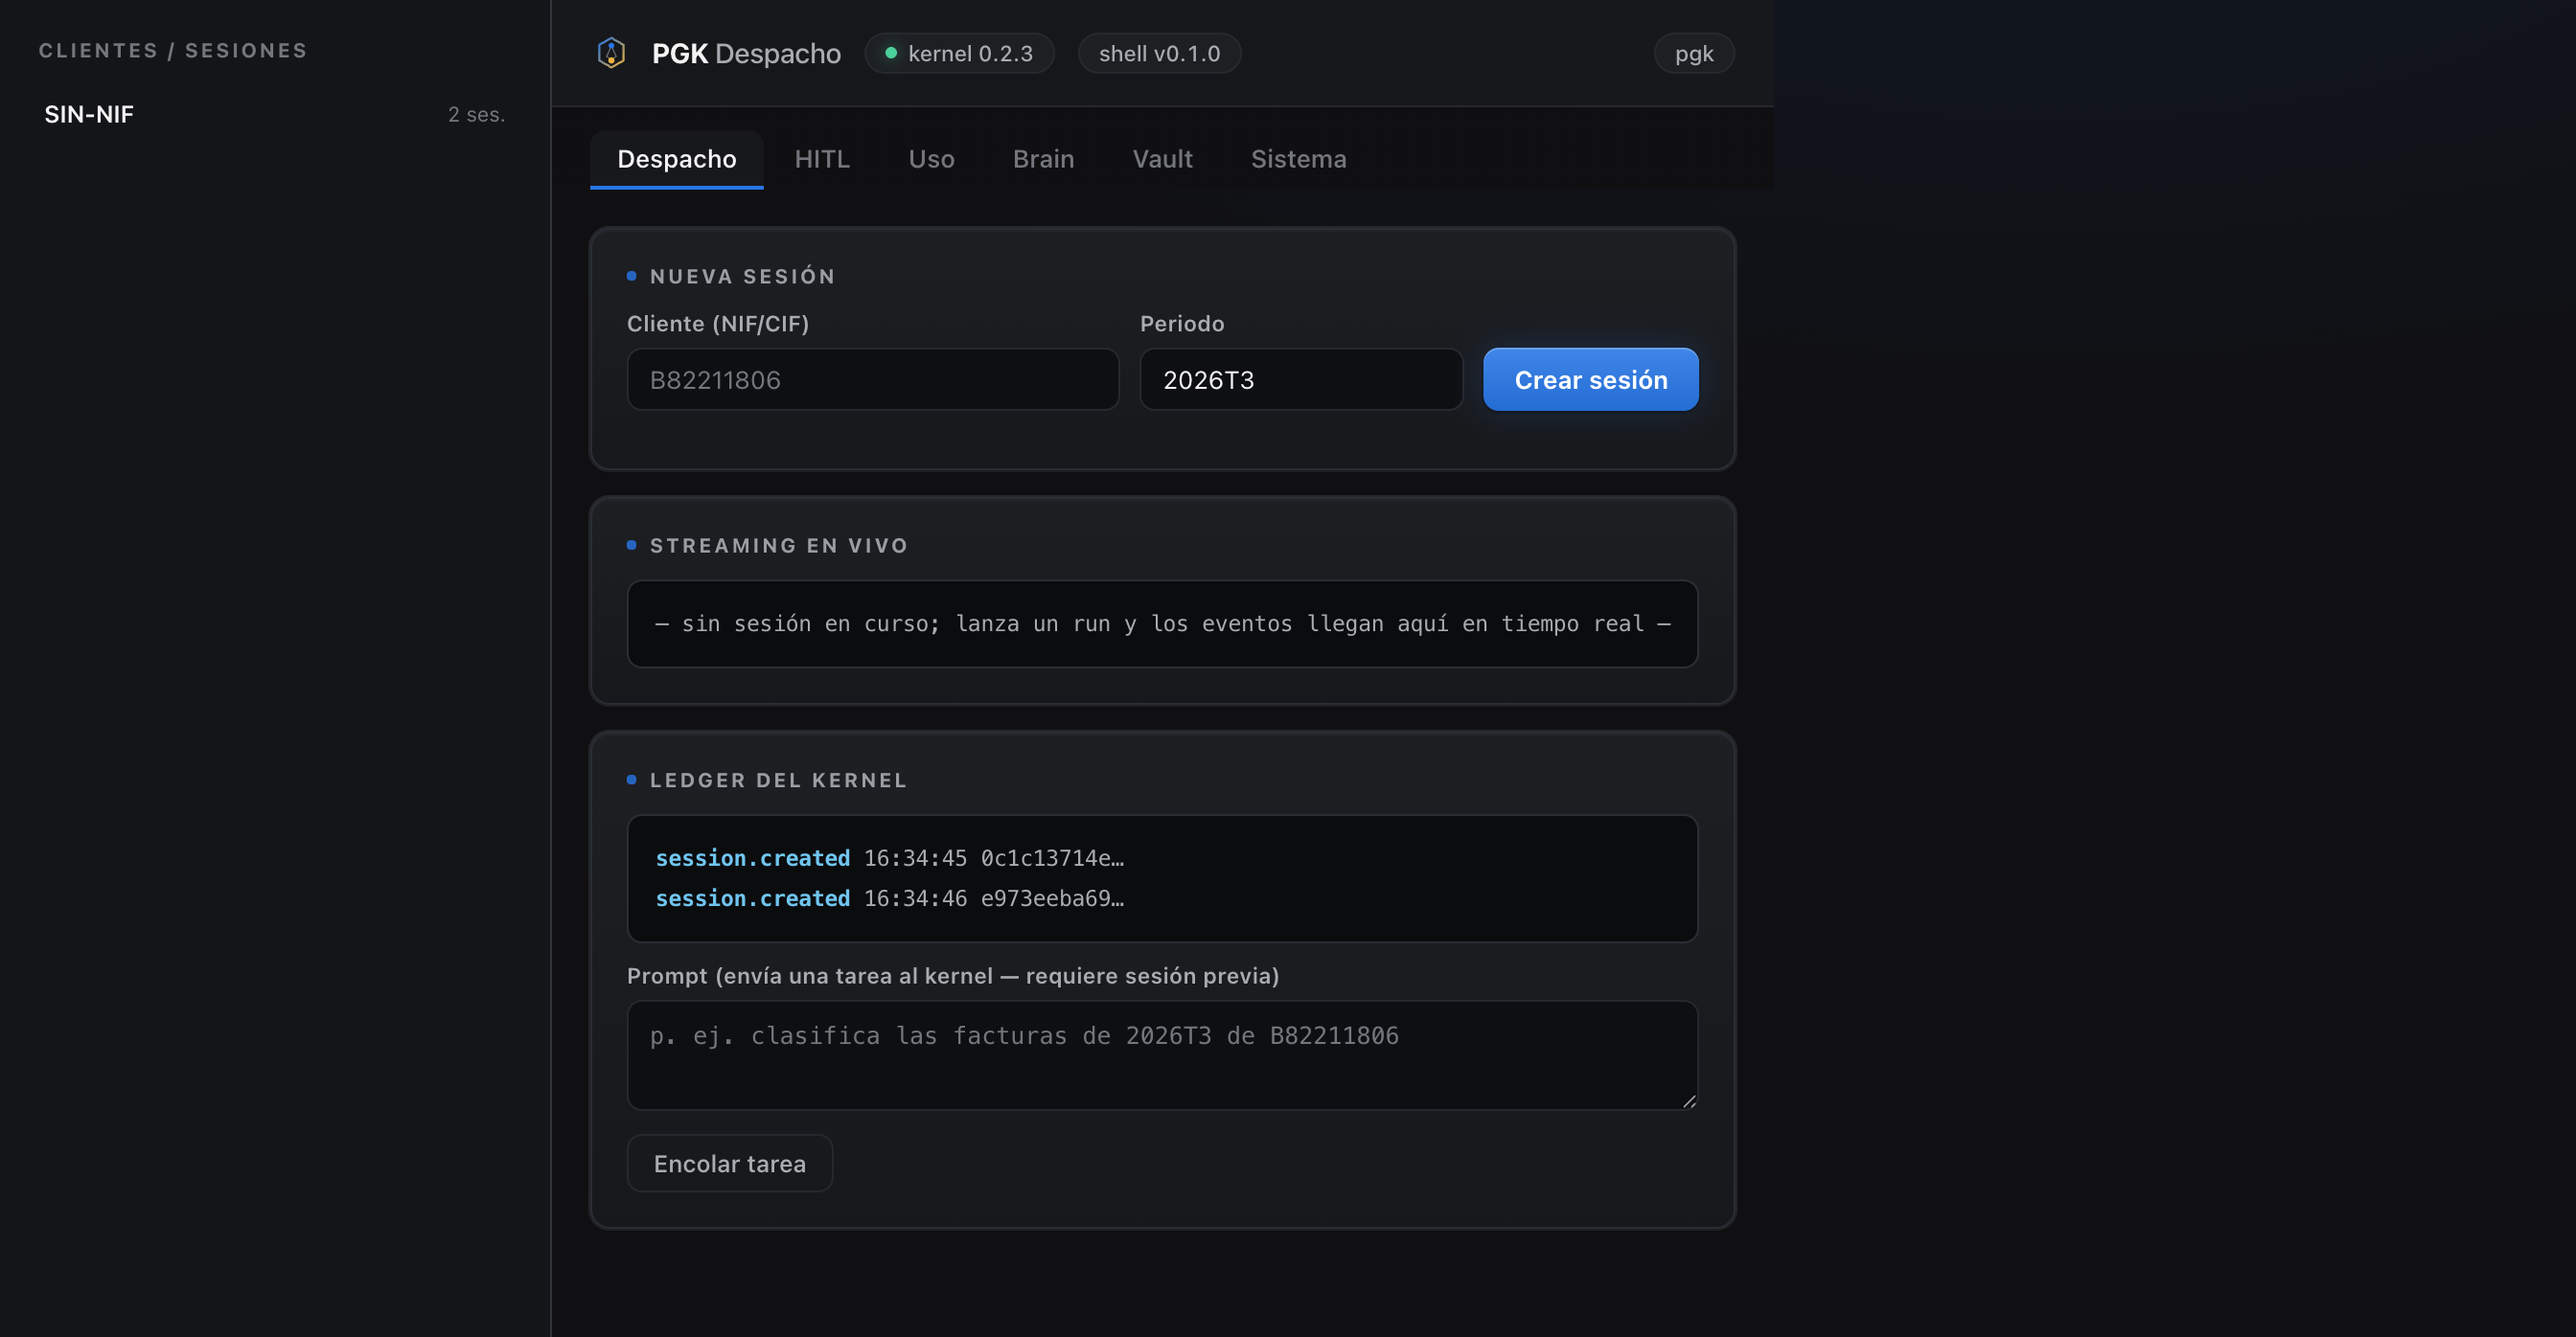
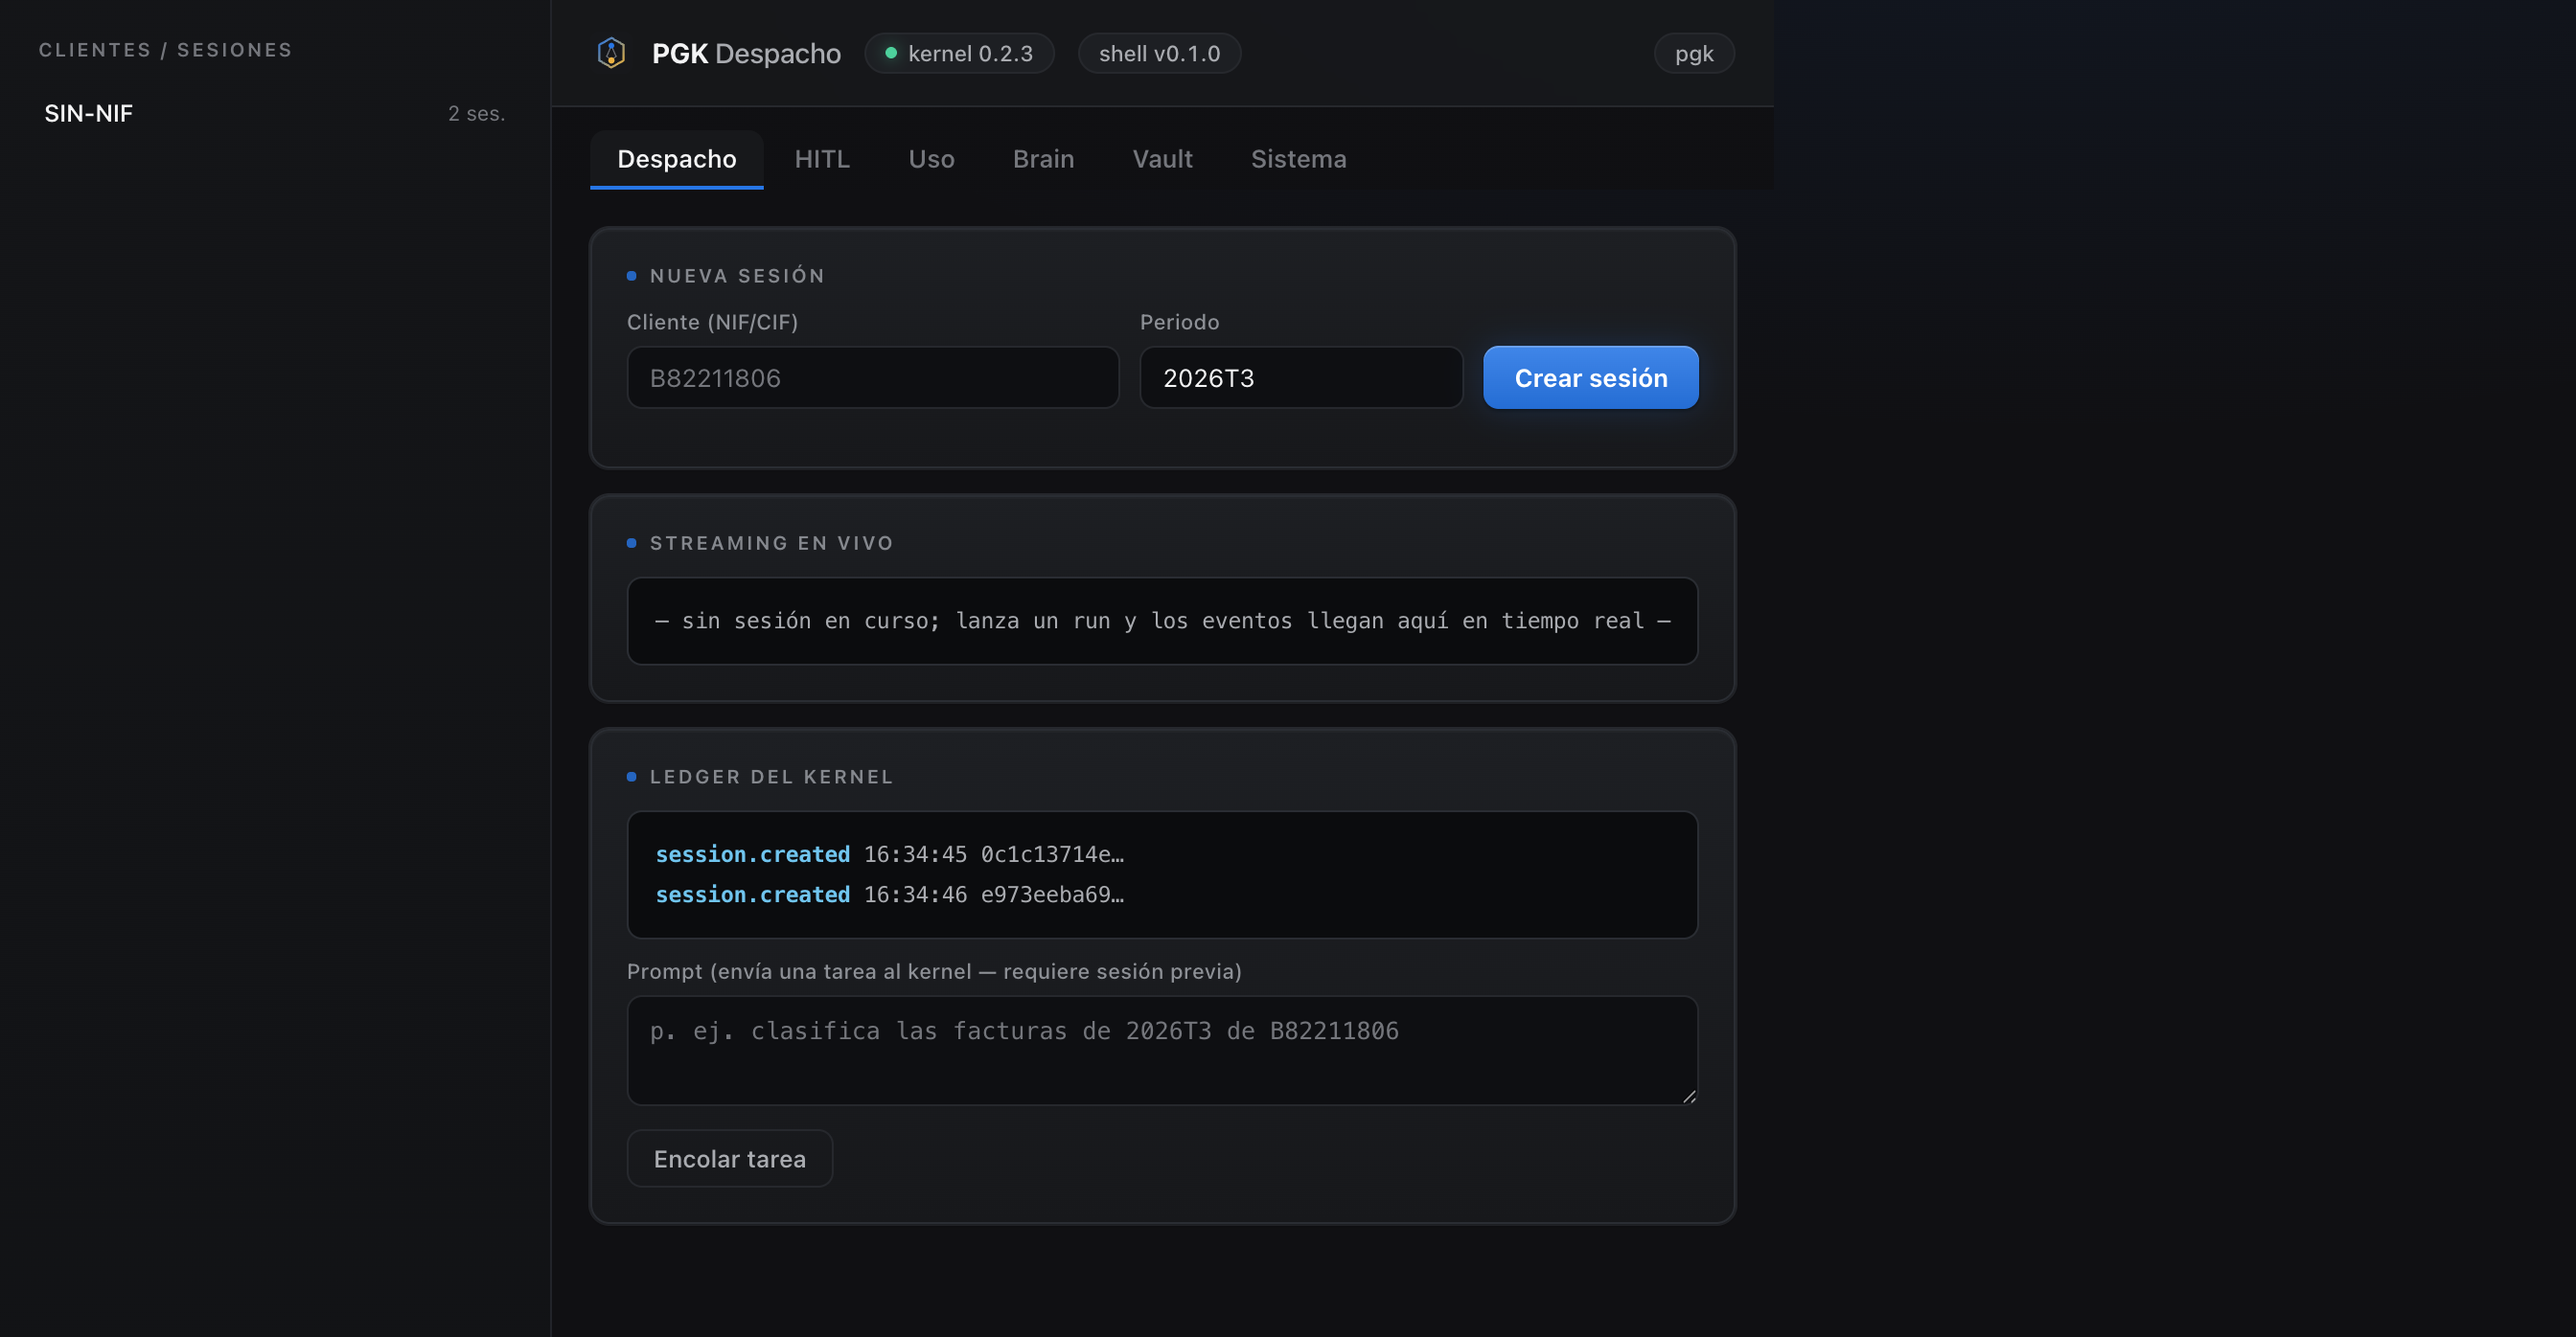
style(shell): pasada final de jerarquía tipográfica (kickers 600, labels 500, meta #7e8187, rail integrado)

diff --git a/src/renderer/ui.css b/src/renderer/ui.css
@@ -126,14 +126,14 @@ section.view { flex: 1; overflow-y: auto; padding: 20px 20px 40px; }
 }
 .card:hover { border-color: #34383f; }
 .card > h3 {
-  margin: 0 0 4px; font-size: 13.5px; font-weight: 650;
+  margin: 0 0 4px; font-size: 13.5px; font-weight: 600;
   letter-spacing: -0.015em; color: var(--text);
 }
 .card .meta { color: var(--text-3); font-size: 12px; line-height: 1.55; margin: 0; }
 
 .kicker {
-  font-size: 10.5px; font-weight: 700; letter-spacing: .13em;
-  text-transform: uppercase; color: #9a9da3; margin: 0 0 12px;
+  font-size: 10px; font-weight: 600; letter-spacing: .13em;
+  text-transform: uppercase; color: #85888e; margin: 0 0 12px;
   display: flex; align-items: center; gap: 7px;
 }
 .kicker::before {
@@ -143,7 +143,7 @@ section.view { flex: 1; overflow-y: auto; padding: 20px 20px 40px; }
 
 /* ── forms ──────────────────────────────────────────────── */
 .field { display: flex; flex-direction: column; gap: 6px; margin-bottom: 12px; }
-.field label { font-size: 11.5px; font-weight: 600; color: var(--text-2); letter-spacing: .01em; }
+.field label { font-size: 11px; font-weight: 500; color: #8d9096; letter-spacing: .01em; }
 
 input, select, textarea {
   background: #0e0f12; color: var(--text);
@@ -200,13 +200,13 @@ button.ok:hover { filter: brightness(1.06); }
 /* ── rail (clientes) ────────────────────────────────────── */
 aside.rail {
   width: 288px; min-width: 288px;
-  background: #141518;
-  border-right: 1px solid var(--line-strong);
+  background: linear-gradient(180deg, #141518, #121316);
+  border-right: 1px solid #22242a;
   padding: 16px 12px;
   overflow-y: auto;
 }
 aside.rail h3 {
-  margin: 4px 8px 10px; font-size: 10.5px; font-weight: 700;
+  margin: 4px 8px 10px; font-size: 10px; font-weight: 600;
   letter-spacing: .12em; text-transform: uppercase; color: var(--text-3);
 }
 .client-list .client {
@@ -216,7 +216,7 @@ aside.rail h3 {
 }
 .client-list .client:hover { background: var(--surface-2); }
 .client-list .client.selected { background: var(--surface-2); border-color: var(--line-strong); }
-.client-list .client strong { font-weight: 600; font-size: 12.5px; }
+.client-list .client strong { font-weight: 550; font-size: 12.5px; }
 .client-list .nif, .client-list .client .nif { color: var(--text-3); font-size: 11px; font-variant-numeric: tabular-nums; }
 
 .chip {
